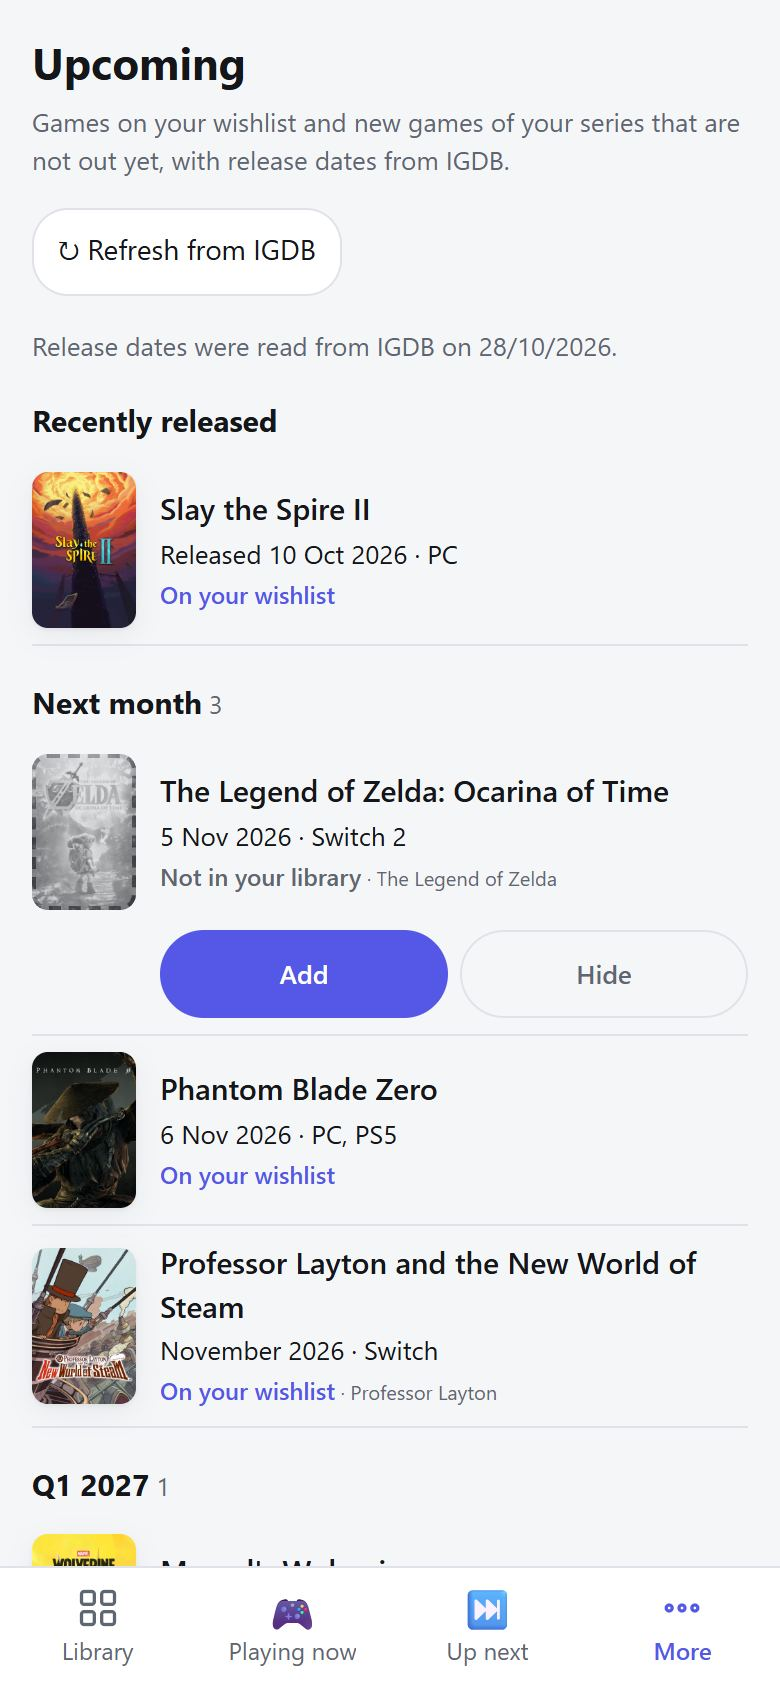
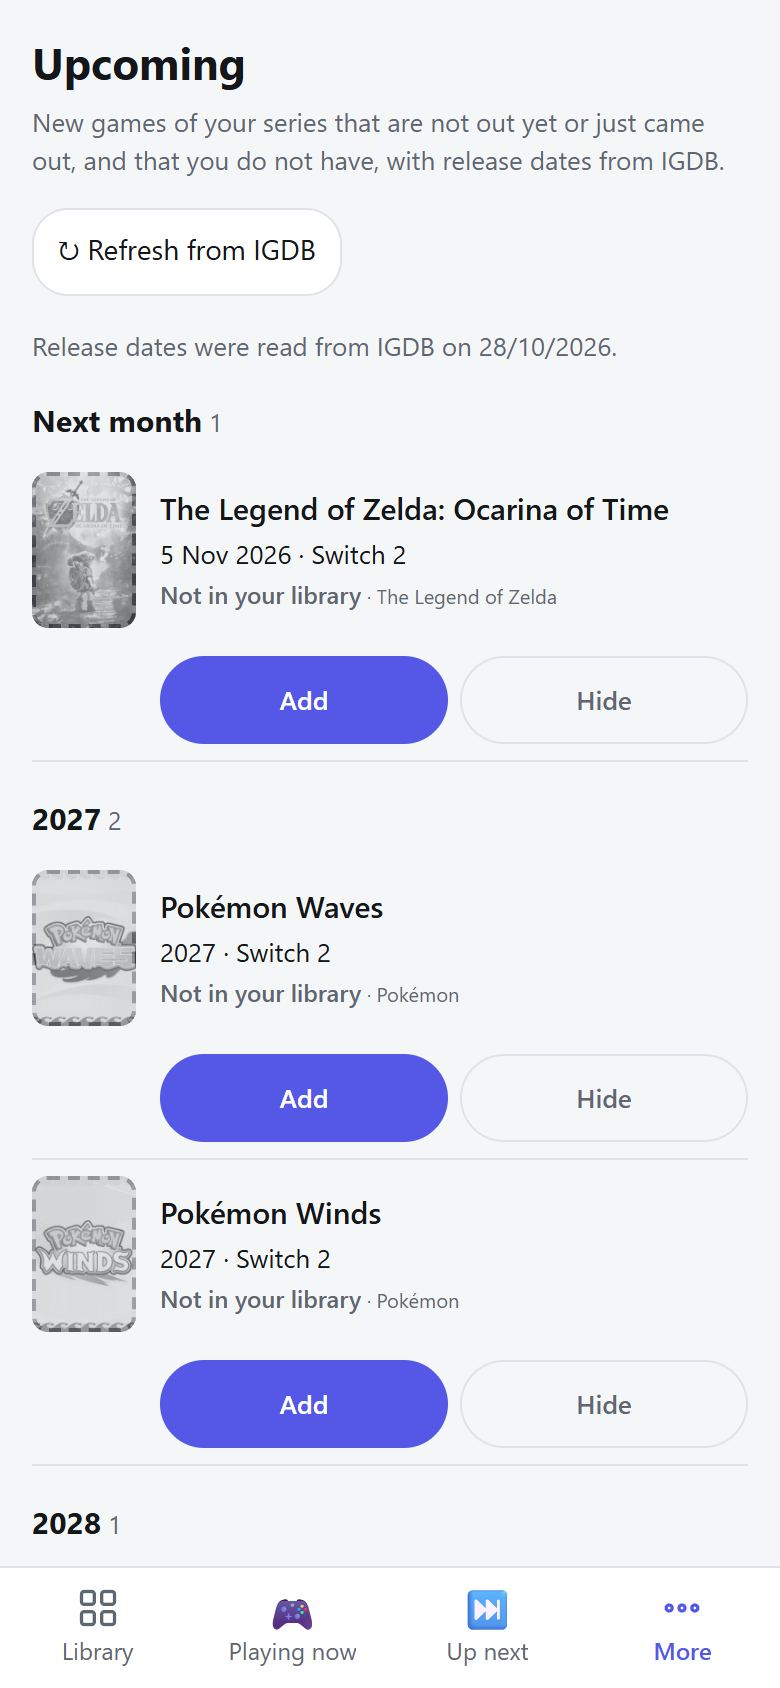
PR review fixes: sort_json and status-list rewrites with JSON functions, fuller migration test
- 018 drops playtime sort levels and rewrites only in/ex status lists; deletes steam_synced_at
- stateFromView ignores sort levels on unknown fields
- migration test covers rankings, collections, similar, deals and poster/date columns
- Upcoming and Similar screenshots regenerated; note on removing STEAM keys

diff --git a/web/static/js/filters.js b/web/static/js/filters.js
@@ -3,7 +3,7 @@
 // state = { q, in: {key: Set}, ex: {key: Set}, all: Set<key>, flags: Set, sorts: [], group: '' }
 // A game passes a facet group when it has ANY (or ALL, if the group is in `all`) of the included
 // values and NONE of the excluded ones.
-import { parseSort, formatSort, GROUP_FIELDS } from './sort.js';
+import { parseSort, formatSort, GROUP_FIELDS, SORT_FIELDS } from './sort.js';
 import { norm } from './util.js';
 import { SHORT_MINUTES, emptyTtbFilter, ttbRangeActive, ttbFilterActive, matchesTtb, TTB_KINDS } from './ttb.js';
 
@@ -123,7 +123,7 @@ export function stateFromView(view) {
   for (const k of f.flags || []) if (FLAGS.some((x) => x.key === k)) s.flags.add(k);
   s.ttb = ttbFrom(f.ttb);
   if ((f.flags || []).includes('short')) migrateShort(s);
-  s.sorts = (view.sort || []).filter((l) => l && typeof l.field === 'string').map((l) => ({ field: l.field, dir: l.dir === 'desc' ? 'desc' : 'asc' }));
+  s.sorts = (view.sort || []).filter((l) => l && typeof l.field === 'string' && Object.hasOwn(SORT_FIELDS, l.field)).map((l) => ({ field: l.field, dir: l.dir === 'desc' ? 'desc' : 'asc' }));
   s.group = GROUP_FIELDS[view.group_by] ? view.group_by : '';
   s.layout = view.layout === 'table' ? 'table' : 'cards';
   return s;

diff --git a/internal/db/remove_wishlist_steam_test.go b/internal/db/remove_wishlist_steam_test.go
@@ -34,16 +34,27 @@ func TestRemoveWishlistSteamMigration(t *testing.T) {
 	}
 	for _, q := range []string{
 		`PRAGMA user_version = 17`,
-		`INSERT INTO game(id, title, title_sort, status_id, igdb_id, playtime_min, steam_last_played) VALUES (1,'Hades','hades',(SELECT id FROM status WHERE code='finished'),100,600,1700000000)`,
+		`INSERT INTO game(id, title, title_sort, status_id, igdb_id, playtime_min, steam_last_played, poster_file, first_release_date, release_date_format) VALUES (1,'Hades','hades',(SELECT id FROM status WHERE code='finished'),100,600,1700000000,'p1.jpg',1600000000,0)`,
 		`INSERT INTO game(id, title, title_sort, status_id) VALUES (2,'Wished','wished',(SELECT id FROM status WHERE code='wishlist'))`,
 		`INSERT INTO game(id, title, title_sort, status_id) VALUES (3,'Held','held',(SELECT id FROM status WHERE code='hold'))`,
 		`INSERT INTO play(game_id, year) VALUES (1, 2024)`,
+		`INSERT INTO play(game_id, year) VALUES (3, 2023)`,
+		`INSERT INTO ranking(id, name) VALUES (1, 'Best')`,
+		`INSERT INTO ranking_tier(id, ranking_id, label, color, pos) VALUES (1, 1, 'S', '#fff', 1)`,
+		`INSERT INTO ranking_entry(ranking_id, game_id, tier_id, pos) VALUES (1, 1, 1, 1)`,
+		`INSERT INTO similar_game(igdb_id, title, game_type) VALUES (500, 'Similar', 0)`,
+		`INSERT INTO similar_link(source_igdb_id, similar_igdb_id) VALUES (100, 500)`,
+		`INSERT INTO deal_price(game_id, currency, fetched_at) VALUES (1, 'EUR', '2026-01-01T00:00:00Z')`,
+		`INSERT INTO setting(key, value) VALUES ('steam_synced_at', '2026-01-01T00:00:00Z')`,
+		`INSERT INTO setting(key, value) VALUES ('deals_country', 'ES')`,
 		`INSERT INTO steam_app(app_id, name, playtime_min, game_id, source, seen_at) VALUES (1, 'Hades', 600, 1, 'link', '2026-01-01T00:00:00Z')`,
 		`INSERT INTO steam_app(app_id, name, seen_at) VALUES (2, 'Unmatched', '2026-01-01T00:00:00Z')`,
 		`INSERT INTO deal_match(game_id, itad_id, source) VALUES (1, 'abc', 'title')`,
 		`INSERT INTO igdb_collection(id, name, fetched_at) VALUES (7, 'Zed Series', '2026-01-01T00:00:00Z')`,
-		`INSERT INTO saved_view(name, icon, filter_json, sort_json, pinned, pos) VALUES ('Wanted', 'x', '{"in":{"status":["wishlist","backlog"]}}', '[]', 0, 90)`,
-		`INSERT INTO saved_view(name, icon, filter_json, sort_json, pinned, pos) VALUES ('Only', 'x', '{"in":{"status":["wishlist"]},"flags":["vr"]}', '[]', 0, 91)`,
+		`INSERT INTO igdb_collection_game(collection_id, igdb_id, title, game_type, first_release_date, release_date_format) VALUES (7, 101, 'Hades II', 0, 1900000000, 0)`,
+		`INSERT INTO saved_view(name, icon, filter_json, sort_json, pinned, pos) VALUES ('Wanted', 'x', '{"in":{"status":["wishlist","backlog"]},"ex":{"status":["wishlist"]}}', '[{"field":"playtime","dir":"desc"},{"field":"title","dir":"asc"}]', 0, 90)`,
+		`INSERT INTO saved_view(name, icon, filter_json, sort_json, pinned, pos) VALUES ('Only', 'x', '{"in":{"status":["wishlist"]},"flags":["vr"]}', '[{"field":"playtime","dir":"asc"}]', 0, 91)`,
+		`INSERT INTO saved_view(name, icon, filter_json, sort_json, pinned, pos) VALUES ('Search', 'x', '{"q":"wishlist","in":{"genre":["wishlist"]}}', '[{"field":"title","dir":"asc"}]', 0, 92)`,
 	} {
 		if _, err := old.Exec(q); err != nil {
 			t.Fatal(q, err)
@@ -69,7 +80,7 @@ func TestRemoveWishlistSteamMigration(t *testing.T) {
 	if n := count(`SELECT count(*) FROM game`); n != 3 {
 		t.Errorf("games %d", n)
 	}
-	if n := count(`SELECT count(*) FROM play`); n != 1 {
+	if n := count(`SELECT count(*) FROM play`); n != 2 {
 		t.Errorf("plays %d", n)
 	}
 	if n := count(`SELECT count(*) FROM saved_view`); n != views {
@@ -78,8 +89,23 @@ func TestRemoveWishlistSteamMigration(t *testing.T) {
 	if n := count(`SELECT count(*) FROM ranking`); n != rankings {
 		t.Errorf("rankings %d, want %d", n, rankings)
 	}
-	if n := count(`SELECT count(*) FROM igdb_collection`) + count(`SELECT count(*) FROM deal_match`); n != 2 {
-		t.Errorf("series cache and deal rows: %d", n)
+	for table, want := range map[string]int{"igdb_collection": 1, "igdb_collection_game": 1, "similar_game": 1, "similar_link": 1,
+		"deal_match": 1, "deal_price": 1, "ranking": 1, "ranking_tier": 1, "ranking_entry": 1} {
+		if n := count(`SELECT count(*) FROM ` + table); n != want {
+			t.Errorf("%s: %d rows, want %d", table, n, want)
+		}
+	}
+	if n := count(`SELECT count(*) FROM game WHERE id = 1 AND poster_file = 'p1.jpg' AND first_release_date = 1600000000 AND release_date_format = 0`); n != 1 {
+		t.Error("poster or release date of game 1 changed")
+	}
+	if n := count(`SELECT count(*) FROM igdb_collection_game WHERE first_release_date = 1900000000`); n != 1 {
+		t.Error("collection game release date changed")
+	}
+	if n := count(`SELECT count(*) FROM setting WHERE key = 'steam_synced_at'`); n != 0 {
+		t.Error("steam_synced_at left")
+	}
+	if n := count(`SELECT count(*) FROM setting WHERE key = 'deals_country'`); n != 1 {
+		t.Error("deals_country lost")
 	}
 	if n := count(`SELECT count(*) FROM sqlite_master WHERE name LIKE '%steam%'`); n != 0 {
 		t.Errorf("%d steam objects left", n)
@@ -107,18 +133,28 @@ func TestRemoveWishlistSteamMigration(t *testing.T) {
 	if got := strings.Join(order, " "); got != "playing=1 playing_evergreen=2 up_next=3 backlog=4 hold=5 evergreen=6 finished=7 dropped=8 not_interested=9" {
 		t.Errorf("status order: %s", got)
 	}
-	var wanted, only string
-	d.QueryRow(`SELECT filter_json FROM saved_view WHERE name = 'Wanted'`).Scan(&wanted)
-	d.QueryRow(`SELECT filter_json FROM saved_view WHERE name = 'Only'`).Scan(&only)
-	if wanted != `{"in":{"status":["backlog"]}}` || only != `{"in":{"status":[]},"flags":["vr"]}` {
-		t.Errorf("views: %s | %s", wanted, only)
+	var wanted, wantedSort, only, onlySort, search, searchSort string
+	d.QueryRow(`SELECT filter_json, sort_json FROM saved_view WHERE name = 'Wanted'`).Scan(&wanted, &wantedSort)
+	d.QueryRow(`SELECT filter_json, sort_json FROM saved_view WHERE name = 'Only'`).Scan(&only, &onlySort)
+	d.QueryRow(`SELECT filter_json, sort_json FROM saved_view WHERE name = 'Search'`).Scan(&search, &searchSort)
+	if wanted != `{"in":{"status":["backlog"]},"ex":{"status":[]}}` || wantedSort != `[{"field":"title","dir":"asc"}]` {
+		t.Errorf("view Wanted: %s | %s", wanted, wantedSort)
 	}
-	var fk, integrity string
+	if only != `{"in":{"status":[]},"flags":["vr"]}` || onlySort != `[]` {
+		t.Errorf("view Only: %s | %s", only, onlySort)
+	}
+	if search != `{"q":"wishlist","in":{"genre":["wishlist"]}}` || searchSort != `[{"field":"title","dir":"asc"}]` {
+		t.Errorf("a search or genre named wishlist was touched: %s | %s", search, searchSort)
+	}
+	if n := count(`SELECT count(*) FROM saved_view WHERE NOT json_valid(filter_json) OR NOT json_valid(sort_json)`); n != 0 {
+		t.Errorf("%d views with invalid JSON", n)
+	}
 	if n := count(`SELECT count(*) FROM pragma_foreign_key_check`); n != 0 {
 		t.Errorf("%d foreign key violations", n)
 	}
+	var integrity string
 	d.QueryRow(`PRAGMA integrity_check`).Scan(&integrity)
 	if integrity != "ok" {
-		t.Errorf("integrity %s %s", integrity, fk)
+		t.Errorf("integrity %s", integrity)
 	}
 }

diff --git a/CHANGELOG.md b/CHANGELOG.md
@@ -44,7 +44,7 @@ Fixes to how the app works and fits on a phone; the look is unchanged.
 
 ### Removed
 
-- **Wishlist and Steam sync.** The *Wishlist* status, the **Steam** page and `deltabacklog sync-steam` are gone, with the hours played (the *12 h of ~15 h* line, the **Played** column and sort), `STEAM_API_KEY` and `STEAM_ID`. Migration 018 moves any Wishlist game to Backlog, drops the Steam tables and the stored hours, and removes the Wishlist status from saved views. **Upcoming** now lists only the new games of your series that you do not have; **Deals** covers Backlog and Up next; Similar games has no *Wishlist* button; the Series page and the Stats no longer treat a game specially for being wished for.
+- **Wishlist and Steam sync.** The *Wishlist* status, the **Steam** page and `deltabacklog sync-steam` are gone, with the hours played (the *12 h of ~15 h* line, the **Played** column and sort), `STEAM_API_KEY` and `STEAM_ID`. Migration 018 moves any Wishlist game to Backlog, drops the Steam tables and the stored hours, and removes the Wishlist status and any Steam-hours sort from saved views. `STEAM_API_KEY` and `STEAM_ID` are no longer read: delete them from `/etc/deltabacklog.env` (and revoke the Steam Web API key if you do not want it). **Upcoming** now lists only the new games of your series that you do not have; **Deals** covers Backlog and Up next; Similar games has no *Wishlist* button; the Series page and the Stats no longer treat a game specially for being wished for.
 
 ### Fixed
 - IGDB search no longer misses well-known games buried among their sequels, bundles and DLC (God of War 2005 and Portal 2007 were not offered). It now fetches 50 hits plus all (up to 200) games named exactly like the query, shows the best 12 with exact names first (DLC and mods last; then the game on most stores; then main game before remake and port; then older; at most 6 namesakes so sequels still show), and understands a year in the query (`God of War 2005`, `Portal (2007)`) as a hint. `sync-igdb` uses the same search and sees every namesake, so it never links on a shortened list. All IGDB requests of one process are paced to 4 per second in one place.
